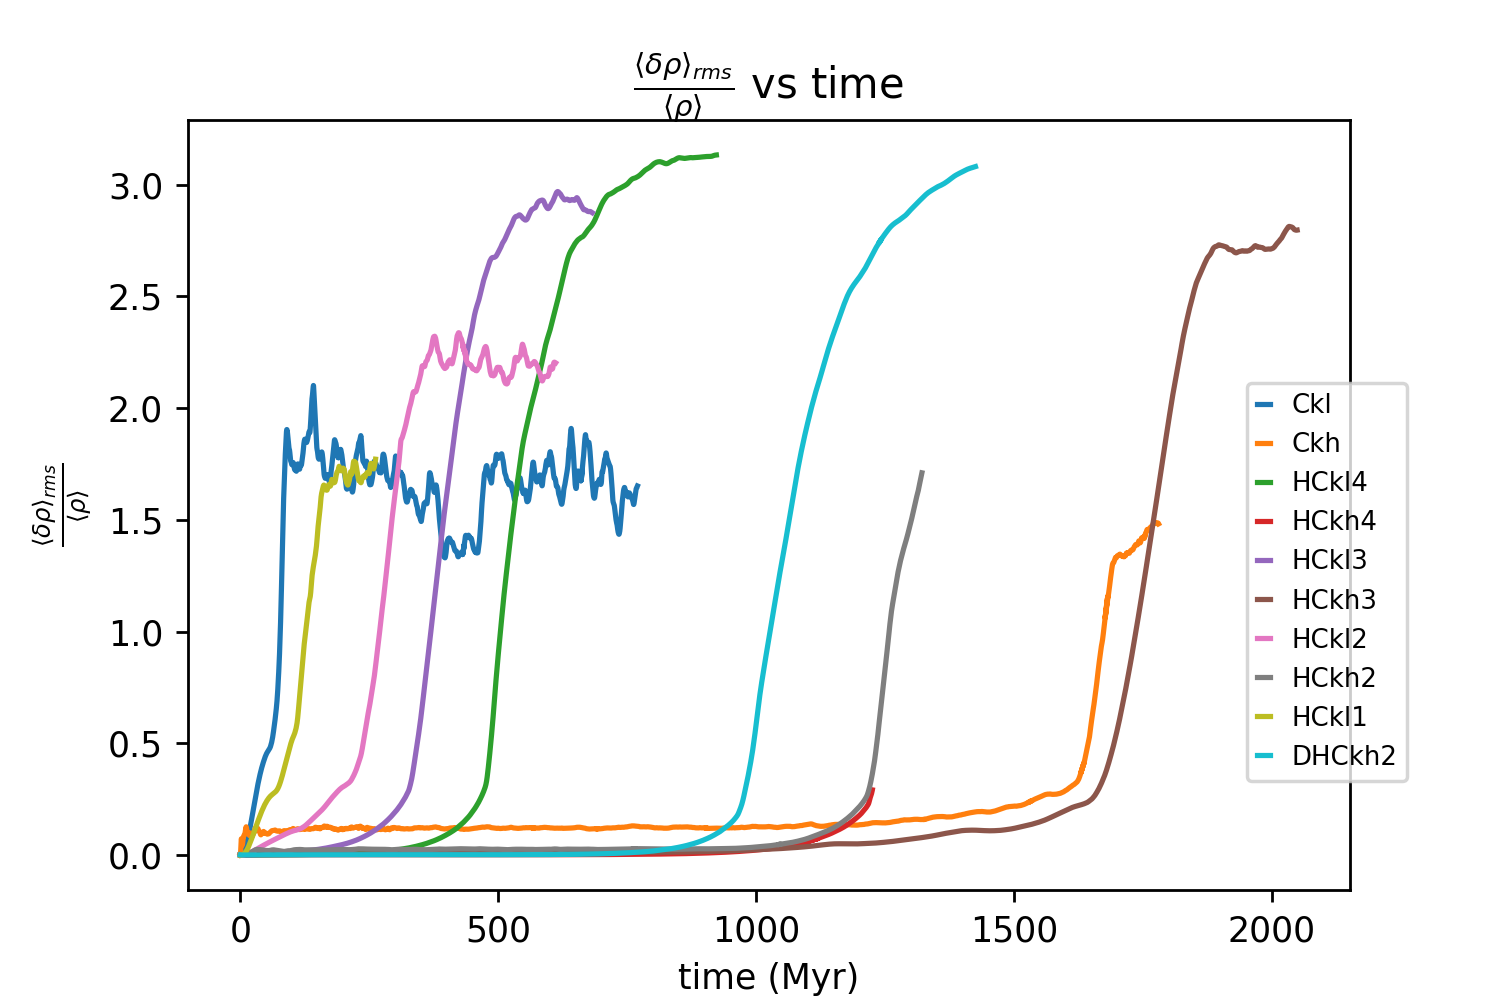
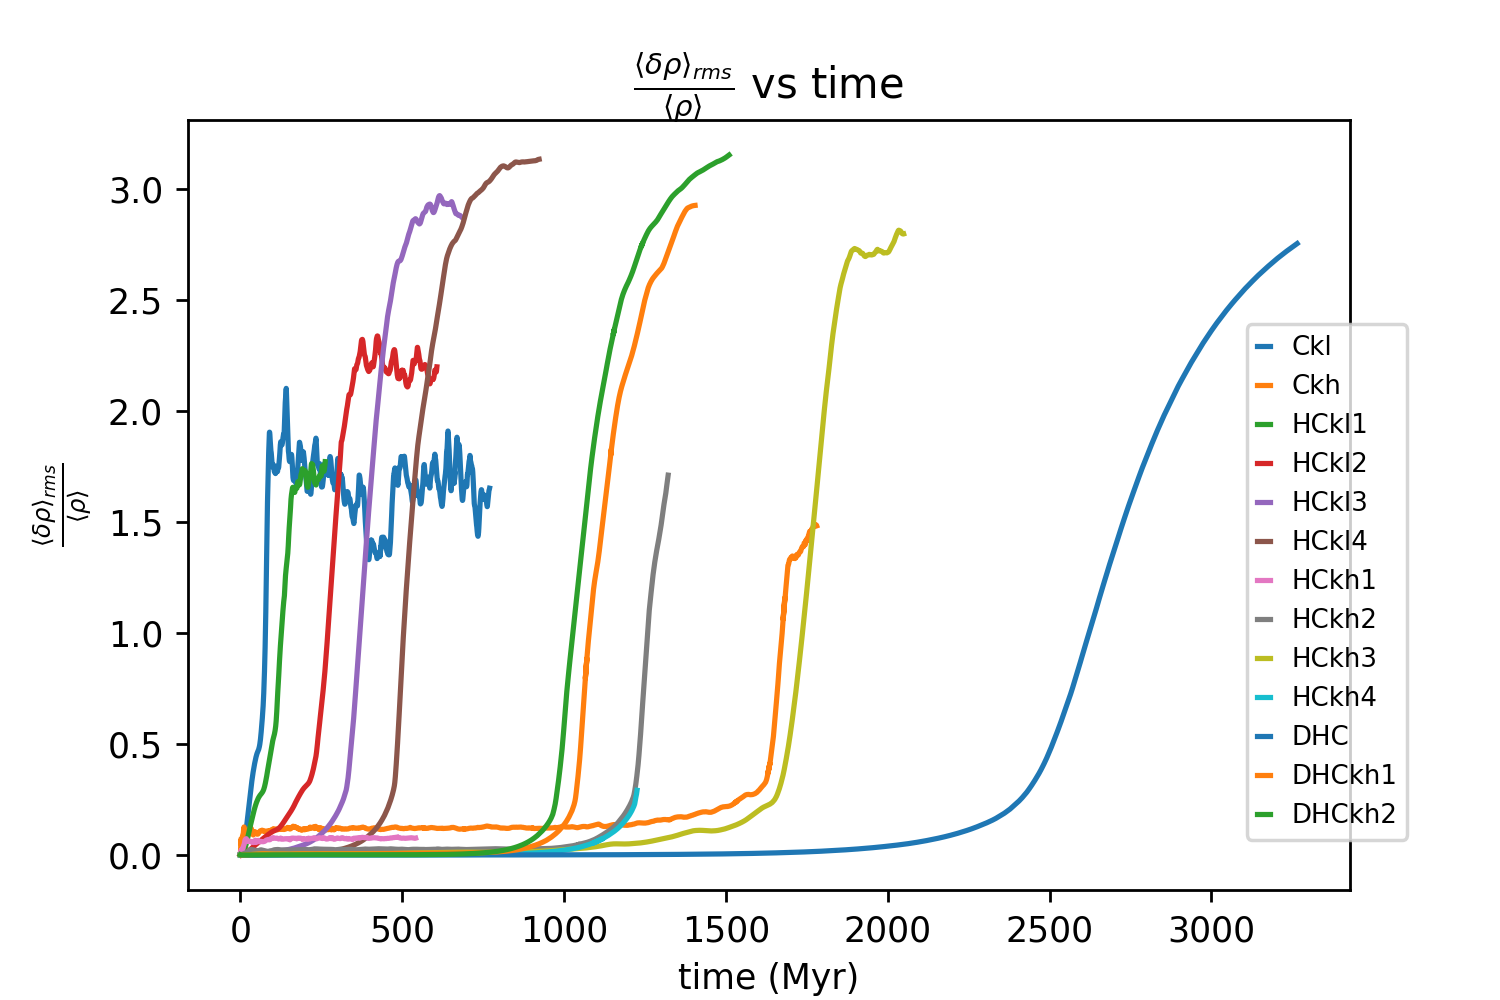
Added mach number and temp dist plots

diff --git a/mach_temp_dist/mach-temp-dist.py b/mach_temp_dist/mach-temp-dist.py
@@ -12,15 +12,20 @@ UNIT_VELOCITY= (1.e8)
 UNIT_LENGTH =  (CONST_pc*40.e3)
 UNIT_TIME=UNIT_LENGTH/UNIT_VELOCITY/(3.15e13)
 nx,ny,nz=256,256,256
-no_files=13
+#no_files=13
 #Load data files
-wdir=('tabulated_cooling/256/k0-2/', 'tabulated_cooling/256/k12/', 'thermal_heating/256/tabulated_cooling/F5e-1/k0-2/', 'thermal_heating/256/tabulated_cooling/F1e-1/k0-2/', 'thermal_heating/256/tabulated_cooling/F1e-2/k0-2/', 'thermal_heating/256/tabulated_cooling/F1e-3/k0-2/', 'thermal_heating/256/tabulated_cooling/F5e-1/k12/', 'thermal_heating/256/tabulated_cooling/F1e-1/k12/', 'thermal_heating/256/tabulated_cooling/F1e-2/k12/', 'thermal_heating/256/tabulated_cooling/F1e-3/k12/', 'no_turb/', 'turb_perturb/F1e-2/k12/', 'turb_perturb/F1e-3/k12/')
+#wdir=('tabulated_cooling/256/k0-2/', 'tabulated_cooling/256/k12/', 'thermal_heating/256/tabulated_cooling/F5e-1/k0-2/', 'thermal_heating/256/tabulated_cooling/F1e-1/k0-2/', 'thermal_heating/256/tabulated_cooling/F1e-2/k0-2/', 'thermal_heating/256/tabulated_cooling/F1e-3/k0-2/', 'thermal_heating/256/tabulated_cooling/F5e-1/k12/', 'thermal_heating/256/tabulated_cooling/F1e-1/k12/', 'thermal_heating/256/tabulated_cooling/F1e-2/k12/', 'thermal_heating/256/tabulated_cooling/F1e-3/k12/', 'no_turb/', 'turb_perturb/F1e-2/k12/', 'turb_perturb/F1e-3/k12/')
+#labels=('Ckl', 'Ckh', 'HCkl1', 'HCkl2', 'HCkl3', 'HCkl4', 'HCkh1', 'HCkh2', 'HCkh3', 'HCkh4', 'DHC', 'DHCkh1', 'DHCkh2')
+#t_mp=(2, 45, 4, 10, 14, 21, 0, 33, 51, 30, 79, 35, 36)
+#t_turb=(1.2, 4.8, 2, 4, 6, 10.2, 0, 6, 12, 12, 2, 10.2, 10.2)
+#step_size=(0.2, 0.2, 0.2, 0.2, 1.0, 0.2, 0.2, 0.2, 1.0, 0.2, 0.2, 0.2, 0.2)
 
-labels=('Ckl', 'Ckh', 'HCkl1', 'HCkl2', 'HCkl3', 'HCkl4', 'HCkh1', 'HCkh2', 'HCkh3', 'HCkh4', 'DHC', 'DHCkh1', 'DHCkh2')
-
-t_mp=(2, 45, 4, 10, 14, 21, 0, 33, 51, 30, 79, 35, 36)
-t_turb=(1.2, 4.8, 2, 4, 6, 10.2, 0, 6, 12, 12, 40, 10.2, 10.2)
-step_size=(0.2, 0.2, 0.2, 0.2, 1.0, 0.2, 0.2, 0.2, 1.0, 0.2, 0.2, 0.2, 0.2)
+no_files=3
+wdir=('tabulated_cooling/256/k0-2/', 'tabulated_cooling/256/k12/', 'no_turb/')
+labels=('Ckl', 'Ckh', 'DHC')
+t_mp=(19, 45, 79)
+t_turb=(1.2, 4.8, 2)
+step_size=(0.2, 0.2, 0.2)
 
 fig, ax = plt.subplots()
 for i1 in xrange(0,no_files):
@@ -42,7 +47,8 @@ box = ax.get_position()
 ax.set_position([box.x0, box.y0, box.width, box.height])
 # Put a legend to the bottom of the current axis
 ax.legend(loc='center left', bbox_to_anchor=(0.8, 0.4), ncol=1)
-plt.savefig('mach-dist.png',dpi=250)
+#plt.savefig('mach-dist.png',dpi=250)
+plt.savefig('mach-dist-extremes.png',dpi=250)
 plt.close()
 
 fig, ax = plt.subplots()
@@ -57,7 +63,7 @@ for i1 in xrange(0,no_files):
 fig.set_size_inches(6, 4)
 ax.set_xscale('log')
 ax.set_yscale('log')
-ax.set_xlabel(r'$\left<T\right>')
+ax.set_xlabel(r'$\left<T\right>$')
 ax.set_ylabel(r'Number density')
 ax.set_title(r'Number density vs $\left<T\right>$')
 # Shrink current axis by 20%
@@ -65,6 +71,7 @@ box = ax.get_position()
 ax.set_position([box.x0, box.y0, box.width, box.height])
 # Put a legend to the bottom of the current axis
 ax.legend(loc='center left', bbox_to_anchor=(0.8, 0.4), ncol=1)
-plt.savefig('temp-dist.png',dpi=250)
+#plt.savefig('temp-dist.png',dpi=250)
+plt.savefig('temp-dist-extremes.png',dpi=250)
 plt.close()
 

diff --git a/del-rho-plots/density_perturb.py b/del-rho-plots/density_perturb.py
@@ -12,11 +12,11 @@ UNIT_VELOCITY= (1.e8)
 UNIT_LENGTH =  (CONST_pc*40.e3)
 UNIT_TIME=UNIT_LENGTH/UNIT_VELOCITY/(3.15e13)
 
-no_files=10
+no_files=13
 #Load data files
-wdir=('tabulated_cooling/256/k0-2/', 'tabulated_cooling/256/k12/', 'thermal_heating/256/tabulated_cooling/F1e-3/k0-2/', 'thermal_heating/256/tabulated_cooling/F1e-3/k12/','thermal_heating/256/tabulated_cooling/F1e-2/k0-2/', 'thermal_heating/256/tabulated_cooling/F1e-2/k12/', 'thermal_heating/256/tabulated_cooling/F1e-1/k0-2/', 'thermal_heating/256/tabulated_cooling/F1e-1/k12/','thermal_heating/256/tabulated_cooling/F5e-1/k0-2/', 'turb_perturb/F1e-3/k12/', 'turb_perturb/F1e-2/k12/', 'no_turb/')
+wdir=('tabulated_cooling/256/k0-2/', 'tabulated_cooling/256/k12/', 'thermal_heating/256/tabulated_cooling/F5e-1/k0-2/', 'thermal_heating/256/tabulated_cooling/F1e-1/k0-2/', 'thermal_heating/256/tabulated_cooling/F1e-2/k0-2/', 'thermal_heating/256/tabulated_cooling/F1e-3/k0-2/', 'thermal_heating/256/tabulated_cooling/F5e-1/k12/', 'thermal_heating/256/tabulated_cooling/F1e-1/k12/', 'thermal_heating/256/tabulated_cooling/F1e-2/k12/', 'thermal_heating/256/tabulated_cooling/F1e-3/k12/', 'no_turb/', 'turb_perturb/F1e-2/k12/', 'turb_perturb/F1e-3/k12/')
 
-labels=('Ckl', 'Ckh', 'HCkl4', 'HCkh4',  'HCkl3', 'HCkh3',  'HCkl2', 'HCkh2', 'HCkl1', 'DHCkh2', 'DHCkh1', 'DHC')
+labels=('Ckl', 'Ckh', 'HCkl1', 'HCkl2', 'HCkl3', 'HCkl4', 'HCkh1', 'HCkh2', 'HCkh3', 'HCkh4', 'DHC', 'DHCkh1', 'DHCkh2')
 
 fig, ax = plt.subplots()
 for i1 in xrange(0,no_files):
